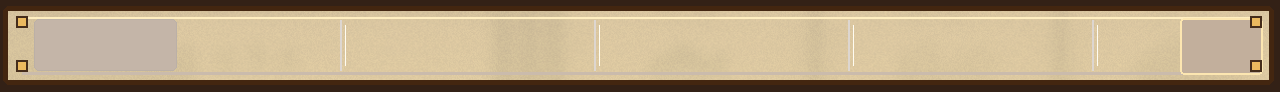
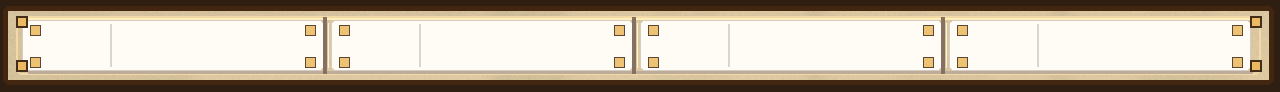
調理場の下部バーを参照構成へ寄せる

diff --git a/docs/qa/evidence/cooking/2026-07-05_prep_bar_report.html b/docs/qa/evidence/cooking/2026-07-05_prep_bar_report.html
@@ -1,0 +1,131 @@
+<!doctype html>
+<html lang="ja">
+<head>
+  <meta charset="utf-8">
+  <title>Tsuri Cooking Reference QA</title>
+  <style>
+    body {
+      margin: 0;
+      background: #10151d;
+      color: #f4ead1;
+      font-family: -apple-system, BlinkMacSystemFont, "Hiragino Sans", sans-serif;
+    }
+    header {
+      position: sticky;
+      top: 0;
+      z-index: 1;
+      padding: 18px 24px;
+      background: #13243a;
+      border-bottom: 2px solid #c79545;
+    }
+    h1, h2, p {
+      margin: 0;
+    }
+    .status {
+      margin-top: 8px;
+      color: #ffd980;
+    }
+    main {
+      padding: 22px;
+    }
+    section {
+      margin-bottom: 34px;
+      padding: 18px;
+      background: #172130;
+      border: 1px solid #5f4424;
+    }
+    h2 {
+      margin-bottom: 8px;
+      color: #ffd980;
+    }
+    .focus {
+      margin-bottom: 14px;
+      color: #d8c8a8;
+    }
+    .pair {
+      display: grid;
+      grid-template-columns: 1fr 1fr;
+      gap: 16px;
+      align-items: start;
+    }
+    figure {
+      margin: 0;
+    }
+    img {
+      display: block;
+      width: 100%;
+      background: #0b0e14;
+      border: 1px solid #7a5a2a;
+    }
+    figcaption, .missing {
+      margin-top: 8px;
+      color: #d8c8a8;
+      font-size: 13px;
+      line-height: 1.45;
+    }
+    code {
+      color: #9fe8ff;
+    }
+    .missing {
+      min-height: 260px;
+      padding: 24px;
+      background: #261922;
+      border: 1px dashed #c76b6b;
+    }
+  </style>
+</head>
+<body>
+  <header>
+    <h1>Tsuri Cooking Reference QA</h1>
+    <p class="status">All captures found. Review each pair against the focus notes.</p>
+  </header>
+  <main>
+    
+            <section>
+              <h2>COOK_SELECT</h2>
+              <p class="focus">Focus: 3カラム構成、魚行、3x2料理カード、右詳細、下部ステータス帯</p>
+              <div class="pair">
+                <figure><img src="file:///Users/ryukouokumura/Desktop/tsuri_quest_umi_mvp/reference/cooking_flow/01_cook_select_concept.png" alt="Reference"><figcaption>Reference<br><code>/Users/ryukouokumura/Desktop/tsuri_quest_umi_mvp/reference/cooking_flow/01_cook_select_concept.png</code></figcaption></figure>
+                <figure><img src="file:///tmp/tsuri_cooking_select.png" alt="Current Capture"><figcaption>Current Capture<br><code>/tmp/tsuri_cooking_select.png</code></figcaption></figure>
+              </div>
+            </section>
+            
+            <section>
+              <h2>MEAL_RESULT</h2>
+              <p class="focus">Focus: 食事シーン、食べたバナー、料理カード、4報酬カード、下部ステータス帯</p>
+              <div class="pair">
+                <figure><img src="file:///Users/ryukouokumura/Desktop/tsuri_quest_umi_mvp/reference/cooking_flow/02_meal_result_concept.png" alt="Reference"><figcaption>Reference<br><code>/Users/ryukouokumura/Desktop/tsuri_quest_umi_mvp/reference/cooking_flow/02_meal_result_concept.png</code></figcaption></figure>
+                <figure><img src="file:///tmp/tsuri_cooking_result.png" alt="Current Capture"><figcaption>Current Capture<br><code>/tmp/tsuri_cooking_result.png</code></figcaption></figure>
+              </div>
+            </section>
+            
+            <section>
+              <h2>EXP_GAIN</h2>
+              <p class="focus">Focus: +EXP、EXPゲージ、放射バースト、左料理カード、右効果カード</p>
+              <div class="pair">
+                <figure><img src="file:///Users/ryukouokumura/Desktop/tsuri_quest_umi_mvp/reference/cooking_flow/03_exp_gain_concept.png" alt="Reference"><figcaption>Reference<br><code>/Users/ryukouokumura/Desktop/tsuri_quest_umi_mvp/reference/cooking_flow/03_exp_gain_concept.png</code></figcaption></figure>
+                <figure><img src="file:///tmp/tsuri_cooking_exp.png" alt="Current Capture"><figcaption>Current Capture<br><code>/tmp/tsuri_cooking_exp.png</code></figcaption></figure>
+              </div>
+            </section>
+            
+            <section>
+              <h2>LEVEL_UP_OVERLAY</h2>
+              <p class="focus">Focus: 中央LEVEL UP、Lv遷移、能力上昇、赤リボン、ぬし/釣り場解放</p>
+              <div class="pair">
+                <figure><img src="file:///Users/ryukouokumura/Desktop/tsuri_quest_umi_mvp/reference/cooking_flow/04_level_up_overlay_concept.png" alt="Reference"><figcaption>Reference<br><code>/Users/ryukouokumura/Desktop/tsuri_quest_umi_mvp/reference/cooking_flow/04_level_up_overlay_concept.png</code></figcaption></figure>
+                <figure><img src="file:///tmp/tsuri_cooking_levelup.png" alt="Current Capture"><figcaption>Current Capture<br><code>/tmp/tsuri_cooking_levelup.png</code></figcaption></figure>
+              </div>
+            </section>
+            
+            <section>
+              <h2>STATUS_SUMMARY</h2>
+              <p class="focus">Focus: 5カード、ヘッダーEXP、効果中料理、下部メッセージ、港へ戻る導線</p>
+              <div class="pair">
+                <figure><img src="file:///Users/ryukouokumura/Desktop/tsuri_quest_umi_mvp/reference/cooking_flow/05_status_summary_concept.png" alt="Reference"><figcaption>Reference<br><code>/Users/ryukouokumura/Desktop/tsuri_quest_umi_mvp/reference/cooking_flow/05_status_summary_concept.png</code></figcaption></figure>
+                <figure><img src="file:///tmp/tsuri_cooking_status.png" alt="Current Capture"><figcaption>Current Capture<br><code>/tmp/tsuri_cooking_status.png</code></figcaption></figure>
+              </div>
+            </section>
+            
+  </main>
+</body>
+</html>

diff --git a/tools/generate_cooking_showcase_assets.py b/tools/generate_cooking_showcase_assets.py
@@ -919,21 +919,31 @@ def prep_summary_bar_frame() -> None:
     w, h = 1280, 92
     img = Image.new("RGBA", (w, h), (0, 0, 0, 0))
     draw = ImageDraw.Draw(img, "RGBA")
-    draw.rectangle((0, 0, w, h), fill=(42, 24, 12, 244))
-    paper = reference_paper_texture((w - 18, h - 18), "ead6ad", 187, (74, 670, 1168, 720), 0.36, 6.0)
+    draw.rectangle((0, 0, w, h), fill=(40, 23, 11, 246))
+    paper = reference_paper_texture((w - 18, h - 18), "ead6ad", 187, (74, 670, 1168, 720), 0.40, 6.0)
     paste_rounded(img, paper, (4, 7, w - 6, h - 8), 6, 246)
     draw = ImageDraw.Draw(img, "RGBA")
 
-    # Full-width current-prep tray. It should read as the bottom anchor of the
-    # cook-select scene, not as a generic status table.
+    # Four-slot bottom tray: player level, active meal, cooler, and money.
+    # Runtime text/icons sit on top; the PNG only supplies the compartments.
     draw.rounded_rectangle((3, 6, w - 7, h - 8), radius=6, outline=(67, 38, 16, 255), width=5)
-    draw.line((22, 17, w - 22, 17), fill=(255, 210, 89, 96), width=2)
-    draw.line((22, h - 19, w - 22, h - 19), fill=(109, 67, 27, 92), width=3)
-    draw.rounded_rectangle((34, 19, 176, h - 22), radius=5, fill=(111, 76, 43, 104), outline=(75, 46, 22, 96), width=1)
-    draw.rounded_rectangle((w - 100, 18, w - 18, h - 18), radius=4, fill=(117, 73, 31, 112), outline=(250, 197, 72, 108), width=2)
-    for x in [340, 594, 848, 1092]:
-        draw.line((x, 20, x, h - 22), fill=(83, 49, 20, 50), width=2)
-        draw.line((x + 5, 25, x + 5, h - 27), fill=(255, 236, 160, 36), width=1)
+    draw.rounded_rectangle((16, 16, w - 20, h - 18), radius=6, outline=(232, 174, 68, 118), width=2)
+    draw.line((28, 18, w - 28, 18), fill=(255, 220, 102, 118), width=2)
+    draw.line((28, h - 20, w - 28, h - 20), fill=(109, 67, 27, 112), width=3)
+    slot_w = (w - 44) / 4.0
+    for i in range(4):
+        x0 = int(22 + slot_w * i)
+        x1 = int(22 + slot_w * (i + 1) - 8)
+        draw.rounded_rectangle((x0, 20, x1, h - 22), radius=5, fill=(255, 239, 194, 34), outline=(83, 49, 20, 62), width=1)
+        draw.line((x0 + 88, 24, x0 + 88, h - 26), fill=(83, 49, 20, 52), width=2)
+        draw.line((x0 + 96, 28, x0 + 96, h - 30), fill=(255, 236, 160, 36), width=1)
+        if i > 0:
+            sep = x0 - 7
+            draw.line((sep, 17, sep, h - 19), fill=(71, 39, 16, 168), width=4)
+            draw.line((sep + 4, 23, sep + 4, h - 25), fill=(255, 226, 126, 80), width=1)
+        for y in [25, h - 35]:
+            draw.rectangle((x0 + 8, y, x0 + 18, y + 10), fill=(232, 174, 68, 190), outline=(58, 32, 13, 210), width=1)
+            draw.rectangle((x1 - 18, y, x1 - 8, y + 10), fill=(232, 174, 68, 190), outline=(58, 32, 13, 210), width=1)
     for x, y in [(16, 16), (w - 30, 16), (16, h - 32), (w - 30, h - 32)]:
         draw.rectangle((x, y, x + 11, y + 11), fill=(232, 174, 68, 218), outline=(58, 32, 13, 240), width=2)
     save(img, "prep_summary_bar_frame.png")
@@ -944,19 +954,21 @@ def prep_summary_card_frame() -> None:
     img = Image.new("RGBA", (w, h), (0, 0, 0, 0))
     shadow = Image.new("RGBA", (w, h), (0, 0, 0, 0))
     sd = ImageDraw.Draw(shadow, "RGBA")
-    sd.rounded_rectangle((8, 10, w - 6, h - 5), radius=7, fill=(0, 0, 0, 86))
+    sd.rounded_rectangle((8, 10, w - 6, h - 5), radius=7, fill=(0, 0, 0, 98))
     img.alpha_composite(shadow.filter(ImageFilter.GaussianBlur(3)))
-    paper = reference_paper_texture((w - 18, h - 16), "f2e0b8", 207, (226, 680, 492, 720), 0.38, 5.0)
+    paper = reference_paper_texture((w - 18, h - 16), "f2e0b8", 207, (226, 680, 492, 720), 0.42, 5.0)
     paste_rounded(img, paper, (6, 6, w - 8, h - 8), 6, 246)
     draw = ImageDraw.Draw(img, "RGBA")
 
-    # Prep-state cards should read like the reference's bottom parchment cards:
-    # a large emblem at left, label above, value below, no form-field chrome.
-    draw.rounded_rectangle((6, 6, w - 8, h - 8), radius=6, outline=(82, 47, 20, 248), width=3)
-    draw.rounded_rectangle((18, 12, 76, h - 13), radius=5, fill=(250, 226, 179, 70), outline=(126, 79, 35, 58), width=1)
-    draw.line((88, 15, 88, h - 17), fill=(94, 57, 24, 66), width=2)
-    draw.line((104, 28, w - 36, 28), fill=(120, 75, 34, 46), width=1)
-    draw.line((104, h - 17, w - 34, h - 17), fill=(122, 76, 34, 42), width=2)
+    # Reusable bottom-slot card. Large emblem on the left, compact label/value
+    # stack on the right; no text is baked into the PNG.
+    draw.rounded_rectangle((6, 6, w - 8, h - 8), radius=6, outline=(82, 47, 20, 250), width=3)
+    draw.rounded_rectangle((16, 12, 78, h - 12), radius=6, fill=(250, 226, 179, 88), outline=(126, 79, 35, 86), width=1)
+    draw.ellipse((27, 18, 67, h - 18), fill=(255, 242, 204, 52), outline=(232, 174, 68, 70), width=1)
+    draw.line((90, 14, 90, h - 16), fill=(94, 57, 24, 78), width=2)
+    draw.line((98, 27, w - 34, 27), fill=(120, 75, 34, 58), width=1)
+    draw.line((98, h - 17, w - 34, h - 17), fill=(122, 76, 34, 52), width=2)
+    draw.rectangle((100, 33, w - 36, 39), fill=(255, 245, 205, 28))
     for x, y in [(14, 12), (w - 28, 12), (14, h - 28), (w - 28, h - 28)]:
         draw.rectangle((x, y, x + 9, y + 9), fill=(232, 174, 68, 214), outline=(58, 32, 13, 228), width=1)
     save(img, "prep_summary_card_frame.png")

diff --git a/docs/qa/cooking_qa.md b/docs/qa/cooking_qa.md
@@ -1,6 +1,6 @@
 # 調理場 QA判断ログ
 
-最終更新: 2026-07-05 / 状態: COOK_SELECT 料理カード reference-uplift 完了
+最終更新: 2026-07-05 / 状態: COOK_SELECT 下部バー reference-uplift 完了
 参照画像: reference/cooking_flow/01_cook_select_concept.png, reference/cooking_flow/02_meal_result_concept.png, reference/cooking_flow/03_exp_gain_concept.png, reference/cooking_flow/04_level_up_overlay_concept.png, reference/cooking_flow/05_status_summary_concept.png
 QA更新コマンド: ./tools/cooking_visual_qa.sh
 
@@ -30,7 +30,7 @@ QA更新コマンド: ./tools/cooking_visual_qa.sh
 ## 5. 現在の残ギャップ
 
 - P2: レアリティ表示の `RarityStyles` 横展開は未実施。
-- R1: `src/ui/cooking_screen.gd` の画面固有ハードコード色は大半が未移行。今回触った料理カード周辺のruntime色は `Palette.COOKING_RECIPE_*` へ移行済み。残りは次の調理場直接編集スライスで継続する。
+- R1: `src/ui/cooking_screen.gd` の画面固有ハードコード色は大半が未移行。今回触った料理カード周辺のruntime色は `Palette.COOKING_RECIPE_*`、下部バー周辺のruntime色は `Palette.COOKING_PREP_*` へ移行済み。残りは次の調理場直接編集スライスで継続する。
 - 監査: `tools/cooking_layout_audit.tscn` / `tools/cooking_content_audit.tscn` / `./tools/cooking_visual_qa.sh` はgreen。visual QAは状態間キャプチャ重複のfail guard追加済み。
 
 ## 6. フェーズスコープ宣言（作業中のみ）
@@ -38,6 +38,19 @@ QA更新コマンド: ./tools/cooking_visual_qa.sh
 なし。
 
 ## 7. 判断ログ（直近パスのみ）
+
[phone redacted]: `COOK_SELECT prep bar reference-uplift` 完了。下部バーを参照の4区画構成へ寄せ、下部バー素材候補を採用した。
+
+- 選定理由: 料理カード完了後のafterでも下部は「現在の準備 / 効果中の料理 / クーラーボックス / 詳細」に留まり、参照の「プレイヤーLv / 効果中の料理 / クーラーボックス / 所持金」4区画の装飾フレーム構成へ未到達だったため。
+- 変えたもの: 下部バー枠2枚（バー/カード）、COOK_SELECT下部4区画、COOK_SELECTではタイトルスロット/詳細ボタンを非表示にする状態制御、下部バー周辺のPalette定数、`tools/cooking_content_audit.gd` / `tools/cooking_layout_audit.gd` のCOOK_SELECT契約。
+- 変えていないもの: §1 freeze値、料理カード、魚リスト、右詳細パネル、背景/左右余白、ヘッダー `PlayerStatusBar`、調理報酬オーバーレイ、日本語PNG焼き込み。
+- 素材候補: `tools/generate_cooking_showcase_assets.py` で4区画トレイと下部カード枠候補を生成し採用。候補は4つの情報スロットと縦セパレータが読め、beforeより参照の下部バー構成へ近づいたため。
+- 判断更新: 以前の「下部準備バーへLv/所持金カードを戻さない」は退行ゼロ/重複解消フェーズの暫定条件だった。今回のreference-upliftでは参照構成を優先し、4区画として小さく整理できたため再導入を採用した。
+- Palette: 新規 `Palette.COOKING_PREP_*` を追加。理由は下部バー/カード/タイトル/値のruntime色を、今回触った行から用途名定数へ移すため。
+- 証拠画像: `docs/qa/evidence/cooking/2026-07-05_prep_bar_before_after_ref.png`, `docs/qa/evidence/cooking/2026-07-05_prep_bar_select.png`, `docs/qa/evidence/cooking/2026-07-05_prep_bar_report.html`
+- 判定: afterではプレイヤーLv、効果中の料理、クーラーボックス、所持金が装飾枠で区切られ、参照の下部4区画へ前進した。所持金は `1,250 G` 表記へ合わせ、テキストの見切れなしを実スクショで確認した。cmp一致は判定に使っていない。
+- 検証: `./tools/cooking_visual_qa.sh`、`tools/cooking_content_audit.tscn`、`tools/cooking_layout_audit.tscn`、`cooking_flow_smoke`、`./tools/save_system_verify.sh`、`./tools/validate_project.sh` green。`validate_project.sh` の ObjectDB/resource 警告はベースライン既知。
+- 固定条件: COOK_SELECT下部バーは4区画構成を正とする。ヘッダー `PlayerStatusBar` は維持し、次スライスは右詳細パネルへ進める。
 
 2026-07-05: `COOK_SELECT recipe card reference-uplift` 完了。料理カードを参照の3段構成へ寄せ、カード枠素材候補を採用した。
 

diff --git a/docs/26_refactor_orchestration_plan.md b/docs/26_refactor_orchestration_plan.md
@@ -1,6 +1,6 @@
 # リファクタ作戦台帳
 
-最終更新: 2026-07-05 / 状態: R0/R2/R3/R4/R6/R7/R8 完了。R9（cooking_reward_panel 分割）は第1〜3段完了。R5/R1 は釣り場マップ完了、魚図鑑 Palette 移行 + P2素材評価完了、調理場 `text_overrun_behavior` 既知ギャップ解消済み、調理場COOK_SELECTの `PlayerStatusBar` 展開 + 情報重複解消済み、調理場 layout監査失敗は実P1修正として解消済み、COOK_SELECT料理カードreference-uplift完了。`src/ui/screen_base.gd` の残hexは `Palette.SCREEN_BG_DEFAULT` へ移行済み。次はCOOK_SELECT下部バーのreference-uplift
+最終更新: 2026-07-05 / 状態: R0/R2/R3/R4/R6/R7/R8 完了。R9（cooking_reward_panel 分割）は第1〜3段完了。R5/R1 は釣り場マップ完了、魚図鑑 Palette 移行 + P2素材評価完了、調理場 `text_overrun_behavior` 既知ギャップ解消済み、調理場COOK_SELECTの `PlayerStatusBar` 展開 + 情報重複解消済み、調理場 layout監査失敗は実P1修正として解消済み、COOK_SELECT料理カード/下部バーreference-uplift完了。`src/ui/screen_base.gd` の残hexは `Palette.SCREEN_BG_DEFAULT` へ移行済み。次はCOOK_SELECT右詳細パネルのreference-uplift
 
 Fable オーケストレーターが本ファイルを正本としてスライス順・状態・ベースラインを管理する。
 Composer ワーカーは個別 brief のみ受け取り、本ファイルの更新はオーケストレーターが行う。
@@ -32,7 +32,7 @@ MVPを壊さず、今後のUI改善を画面単位で安全に進められる状
 
 1. **完了済み差分の保護**: R9第1〜3段、釣り場マップR5/R1、魚図鑑R5/R1、調理場COOK_SELECT改善は完了済み。以後は純リファクタ、画面uplift、Palette移行を混ぜず、1スライス1関心で扱う。
 2. **検証の信頼性維持**: `tools/cooking_layout_audit.tscn` の既存失敗は実スクショ上のP1文字欠けとして修正済み。以後はvisual QAの状態重複guard、layout/content audit、実スクショ目視をセットで扱う。
-3. **調理場R5/R1継続**: 現フェーズはCOOK_SELECTを参照画像へ近づけるreference-uplift。料理カードは完了。次は下部バーを、参照の「プレイヤーLv / 効果中の料理 / クーラーボックス / 所持金」4区画へ寄せる。同じ調理場スライスで触った行のPalette移行を併走し、`src/ui/cooking_screen.gd` の残hexは一括置換せず、触った状態・部品ごとに移行する。
+3. **調理場R5/R1継続**: 現フェーズはCOOK_SELECTを参照画像へ近づけるreference-uplift。料理カードと下部バーは完了。次は右詳細パネルの「次の釣行で得られる効果」行、必要素材行、獲得EXP行を参照のバッジ/帯/アイコン質感へ寄せる。同じ調理場スライスで触った行のPalette移行を併走し、`src/ui/cooking_screen.gd` の残hexは一括置換せず、触った状態・部品ごとに移行する。
 4. **残り画面のR5/R1**: P1があれば最優先。P1がなければ、P2が明確で smoke / visual QA / reference / QAログが揃っている画面から進める。
 5. **R1残件の棚卸し**: 画面単位の進行で残ったPalette未移行箇所を監査リストとして管理する。機械的一括ゼロ化はしない。
 6. **任意の構造課題**: BGM二重実装など、MVP健全化の出口に必須でないものは、上記の完了後に別スライス化する。
@@ -96,11 +96,11 @@ done
 | ID | concern | 依存 | 担当 | DoD | 状態 |
 |---|---|---|---|---|---|
 | R0 | ベースライン計測 | — | Composer | 全 smoke + validate の結果を §ベースラインに記録 | **done (2026-07-05)** |
-| R1 | palette 外ハードコード色の洗い出しと修正 | R0 | Composer | `rg` 監査 green、validate + 触った画面 smoke | pending（洗い出しのみ完了: 約932件/22ファイル。機械置換の見た目退行リスクが高く、freeze済み画面のvisual QA前提で画面単位に分割して実施する。2026-07-05: 釣り場マップ2ファイル `src/ui/fishing_spot_select_screen.gd` / `src/ui/components/fishing_spot_map_view.gd` は `Palette.MAP_*` へ移行済み。魚図鑑 `src/ui/fish_book_screen.gd` は `Palette.FISH_BOOK_*` へ移行済み。共有基盤 `src/ui/screen_base.gd` は `Palette.SCREEN_BG_DEFAULT` へ移行済みで直書きhexゼロ。調理場は今回触ったCOOK_SELECT料理カード周辺を `Palette.COOKING_RECIPE_*` へ移行済みで、`src/ui/cooking_screen.gd` 全体のR1は継続） |
+| R1 | palette 外ハードコード色の洗い出しと修正 | R0 | Composer | `rg` 監査 green、validate + 触った画面 smoke | pending（洗い出しのみ完了: 約932件/22ファイル。機械置換の見た目退行リスクが高く、freeze済み画面のvisual QA前提で画面単位に分割して実施する。2026-07-05: 釣り場マップ2ファイル `src/ui/fishing_spot_select_screen.gd` / `src/ui/components/fishing_spot_map_view.gd` は `Palette.MAP_*` へ移行済み。魚図鑑 `src/ui/fish_book_screen.gd` は `Palette.FISH_BOOK_*` へ移行済み。共有基盤 `src/ui/screen_base.gd` は `Palette.SCREEN_BG_DEFAULT` へ移行済みで直書きhexゼロ。調理場は今回触ったCOOK_SELECT料理カード周辺を `Palette.COOKING_RECIPE_*`、下部バー周辺を `Palette.COOKING_PREP_*` へ移行済みで、`src/ui/cooking_screen.gd` 全体のR1は継続） |
 | R2 | showcase 素材参照違反の修正 | R0 | Composer×画面 | `audit_showcase_asset_refs.py` green | **done（監査の結果、現状違反ゼロ。作業不要）** |
 | R3 | autoload / core の pure ロジック境界抽出 | R0, Fable 設計 | Composer | 振る舞い不変、該当 smoke green | **done (2026-07-05)** `game_data.gd`（1828行）を `game_catalog_data.gd`（constテーブル15個・約1430行）と `game_data.gd`（ルール定数+エイリアス+ロジック・約430行）に分離。公開APIはconstエイリアスで不変。7テーブルの JSON md5 前後一致で証明 |
 | R4 | UI 共通基盤（ScreenBase 等）の整理 | R3, Fable 設計 | Composer | Fable 承認済み設計どおり、全 smoke green | **done (2026-07-05)** `ScreenBase.make_screen_label` を新設し、`_harbor_label` / `_shipyard_label` / `_book_label` / `_status_label` / `_market_label` を1行委譲に統合（呼び出し約120箇所は無変更）。画面固有の shadow/outline 色は引数渡しで screen_base への新規hex持ち込みなし。`GameFontsScript` preload を ScreenBase へ昇格し、継承7画面の重複 const を削除。全10 smoke + validate green |
-| R5 | 画面別 UI uplift | R4 | Composer×画面 | 各 `skills/ui-screen-uplift/` + visual QA | 釣り場マップ done (2026-07-05): 詳細`エサ`/`仕掛け`行の省略P1再発を修正し、通常/釣行継続visual QA証拠を `docs/qa/evidence/fishing_spot_map/` に保存。魚図鑑 done (2026-07-05): Palette gate後のvisual QAでP1再発なし、既存portrait候補は現行に明確勝ちせず素材採用見送り（専用素材P2は新規候補待ち）。調理場 safe overrun foundation done (2026-07-05): `ScreenBase.make_label` の既定 `text_overrun_behavior` を `OVERRUN_TRIM_ELLIPSIS` に統一し、`docs/19` §8.5-7 を解消。編集前ベースライン `/tmp/tsuri_refactor_baseline/cooking_overrun_20260705_113951/` と編集後6キャプチャはピクセル完全一致、`cooking_visual_qa.sh` / 全UI smoke / `save_system_verify.sh` / `validate_project.sh` green。調理場 status de-dup done (2026-07-05): COOK_SELECTヘッダーを `PlayerStatusBar` へ置換し、下部「現在の準備」バーから重複Lv/EXP・所持金カードを撤去。証拠 `docs/qa/evidence/cooking/2026-07-05_status_dedupe_before_after_select.png`、`cooking_visual_qa.sh` / `cooking_flow_smoke` / 全UI smoke / `save_system_verify.sh` / `validate_project.sh` / `cooking_content_audit.tscn` green。調理場 layout audit repair done (2026-07-05): EXP_GAIN / LEVEL_UP_OVERLAY / STATUS_SUMMARY の実P1文字欠けを修正し、visual QAに重複キャプチャguardを追加。証拠 `docs/qa/evidence/cooking/2026-07-05_layout_audit_repair_levelup.png`、`cooking_visual_qa.sh` / `cooking_layout_audit.tscn` / `cooking_content_audit.tscn` green。調理場 COOK_SELECT recipe card reference-uplift done (2026-07-05): カード枠素材4枚を生成し、runtime星描画 `RecipeStarRank` とカード縦配分で上部タイトル帯 / 中央皿画像 / 下部星ランク+魚アイコンの3段構成へ寄せた。証拠 `docs/qa/evidence/cooking/2026-07-05_recipe_card_before_after_ref.png`、`cooking_visual_qa.sh` / `cooking_content_audit.tscn` / `cooking_layout_audit.tscn` / `cooking_flow_smoke` / `save_system_verify.sh` / `validate_project.sh` green |
+| R5 | 画面別 UI uplift | R4 | Composer×画面 | 各 `skills/ui-screen-uplift/` + visual QA | 釣り場マップ done (2026-07-05): 詳細`エサ`/`仕掛け`行の省略P1再発を修正し、通常/釣行継続visual QA証拠を `docs/qa/evidence/fishing_spot_map/` に保存。魚図鑑 done (2026-07-05): Palette gate後のvisual QAでP1再発なし、既存portrait候補は現行に明確勝ちせず素材採用見送り（専用素材P2は新規候補待ち）。調理場 safe overrun foundation done (2026-07-05): `ScreenBase.make_label` の既定 `text_overrun_behavior` を `OVERRUN_TRIM_ELLIPSIS` に統一し、`docs/19` §8.5-7 を解消。編集前ベースライン `/tmp/tsuri_refactor_baseline/cooking_overrun_20260705_113951/` と編集後6キャプチャはピクセル完全一致、`cooking_visual_qa.sh` / 全UI smoke / `save_system_verify.sh` / `validate_project.sh` green。調理場 status de-dup done (2026-07-05): COOK_SELECTヘッダーを `PlayerStatusBar` へ置換し、下部「現在の準備」バーから重複Lv/EXP・所持金カードを撤去。証拠 `docs/qa/evidence/cooking/2026-07-05_status_dedupe_before_after_select.png`、`cooking_visual_qa.sh` / `cooking_flow_smoke` / 全UI smoke / `save_system_verify.sh` / `validate_project.sh` / `cooking_content_audit.tscn` green。調理場 layout audit repair done (2026-07-05): EXP_GAIN / LEVEL_UP_OVERLAY / STATUS_SUMMARY の実P1文字欠けを修正し、visual QAに重複キャプチャguardを追加。証拠 `docs/qa/evidence/cooking/2026-07-05_layout_audit_repair_levelup.png`、`cooking_visual_qa.sh` / `cooking_layout_audit.tscn` / `cooking_content_audit.tscn` green。調理場 COOK_SELECT recipe card reference-uplift done (2026-07-05): カード枠素材4枚を生成し、runtime星描画 `RecipeStarRank` とカード縦配分で上部タイトル帯 / 中央皿画像 / 下部星ランク+魚アイコンの3段構成へ寄せた。証拠 `docs/qa/evidence/cooking/2026-07-05_recipe_card_before_after_ref.png`、`cooking_visual_qa.sh` / `cooking_content_audit.tscn` / `cooking_layout_audit.tscn` / `cooking_flow_smoke` / `save_system_verify.sh` / `validate_project.sh` green。調理場 COOK_SELECT prep bar reference-uplift done (2026-07-05): 下部バー枠素材2枚を生成し、プレイヤーLv / 効果中の料理 / クーラーボックス / 所持金の4区画へ再構成。証拠 `docs/qa/evidence/cooking/2026-07-05_prep_bar_before_after_ref.png`、`cooking_visual_qa.sh` / `cooking_content_audit.tscn` / `cooking_layout_audit.tscn` / `cooking_flow_smoke` / `save_system_verify.sh` / `validate_project.sh` green |
 | R6 | 調理フロー4ファイルの重複抽出（定数・StyleBoxヘルパ・皿テクスチャ解決→CookingAssets） | R0 | Composer | behavior-preserving、cooking_flow smoke + visual QA 画像一致、validate green | **done (2026-07-05)** 新規 `src/ui/components/cooking_assets.gd`。STATUS スクショはピクセル一致。RESULT/EXP/LEVELUP は元コードからキャプチャ非決定（アニメーション）のため cmp は参考値、visual QA passed |
 | R7 | 画面横断の重複ヘルパ統合と不要コード削除（_format_money 8重複、_load_texture_if_exists、ScreenBase未使用API、extends表記統一） | R0 | Composer | behavior-preserving、全 smoke + validate green | **done (2026-07-05)** `ScreenBase.format_money` / `_anchored_control` / `_place_control` へ統合。見送り: `_last_sfx_path`（smoke が参照）、`shipyard._format_money`（`maxi` で挙動差）、独自ロジック入り `_load_texture_if_exists` 9ファイル |
 | R9 | cooking_reward_panel（3,396行）の behavior-preserving 分割 | R8（決定的QAを退行判定に使用） | Composer | 各段で cooking visual QA 連続キャプチャが分割前と cmp 完全一致、cooking_flow smoke + validate green | **第1段 done (2026-07-05)** 内部Visualクラス17個（純描画・panel非依存）を新規 `src/ui/components/cooking_reward_visuals.gd`（1,297行）へ純移動し、panel 側は const エイリアスで参照不変（2,119行に減）。移動塊は空行差以外完全一致を diff で確認。素材監査 allowlist に抽出先を登録。6キャプチャがベースライン cmp 全一致。**第2段 done (2026-07-05)** ステータスストリップ節を `src/ui/components/cooking_reward_status_strip.gd`（296行、HBoxContainer component）へ抽出し panel は 1,796行に減。共有ヘルパ5つ+素材パス4定数を `CookingAssets` static へ昇格、`ScreenBase.make_label`/`make_body_label`/`make_shadow_label` を static 化（component からの利用を解禁、呼び出し側無変更）。panel の `_preview_state` 依存は `set_secondary(bool)` 注入に置換。6キャプチャがベースライン cmp 全一致。**第3段 done (2026-07-05)** 報酬カード節を新規 `src/ui/components/cooking_reward_cards.gd`（492行、GridContainer component）へ抽出し、panel は 1,338行に減。panel 側は `set_preview_state` / `show_meal_result` / `show_exp_gain` / `set_reward_cards_height` / `set_growth_text` の明示注入へ置換。編集前ベースライン `/tmp/tsuri_refactor_baseline/r9_reward_cards_20260705_112625/` と分割後6キャプチャが cmp 全一致。`cooking_flow_smoke` / `save_system_verify.sh` / `validate_project.sh` green |
@@ -122,6 +122,8 @@ done
 - 2026-07-05: 次の調理場R5対象は layout audit failure repair。`tools/cooking_layout_audit.tscn` の失敗が実スクショでもEXP_GAIN / LEVEL_UP_OVERLAY / STATUS_SUMMARYのP1文字欠けとして再現し、visual QAの状態重複も検出されたため。
 - 2026-07-05: フェーズを「退行ゼロ」から「参照画像へ近づける」に切替。次のR5対象はCOOK_SELECT料理カード。`docs/qa/evidence/cooking/2026-07-05_layout_audit_repair_select.png` と `reference/cooking_flow/01_cook_select_concept.png` の横並びで、カード上部タイトル帯 / 中央皿画像 / 下部星ランク+魚アイコンの3段構成が弱く、docs/19の順序では構成・文字収まり通過後の素材質感フェーズに入るため。
 - 2026-07-05: 新規Palette定数は `Palette.COOKING_RECIPE_*`。理由: COOK_SELECT料理カード固有のタイトル/星/フッター/カード状態/サムネ/素材行色を、今回触ったruntime行から用途名定数へ移すため。
+- 2026-07-05: 次のR5対象はCOOK_SELECT下部バー。`docs/qa/evidence/cooking/2026-07-05_recipe_card_before_after_ref.png` のafterでも下部は「現在の準備 / 効果中の料理 / クーラーボックス / 詳細」に留まり、参照の「プレイヤーLv / 効果中の料理 / クーラーボックス / 所持金」4区画の装飾フレーム構成へ未到達のため。
+- 2026-07-05: 新規Palette定数は `Palette.COOKING_PREP_*`。理由: COOK_SELECT下部バー/カード/タイトル/値のruntime色を、今回触った行から用途名定数へ移すため。
 
 ### 監査で確認したが今回見送った項目（2026-07-05）
 